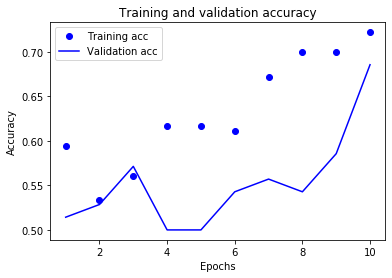
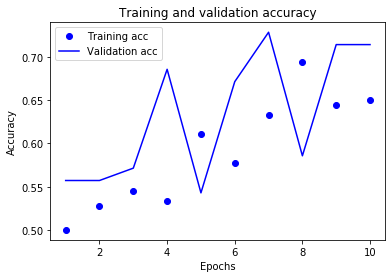
new plots

diff --git a/_posts/2020-01-16-data-analysis-epl1718.md b/_posts/2020-01-16-data-analysis-epl1718.md
@@ -67,17 +67,19 @@ The training and validation accuracies of the network can be seen below.
 
 Because of the overfitting, the increase in the validation accuracy stops at some point.
 
-From the plots above, we see that it is a nice idea to stop training after 10 epochs. After modifying the number of epochs to train the network, we train the network again and obtain the following plots.
+From the plots above, we see that it is a nice idea to stop training after around 10 epochs. After modifying the number of epochs to train the network, we train the network again and obtain the following plots.
 
 ![Training and validation losses after 10 epochs]({{ site.url }}/assets/data_analysis_epl1718/train_val_loss_10.jpg)
 
 ![Training and validation accuracies after 10 epochs]({{ site.url }}/assets/data_analysis_epl1718/train_val_acc_10.jpg)
 
-Looks much better. However, I should say that there is an element of luck because there is a high variance in the performance due to the low amount of data. You are probably tired of reading "performance is not the best due to low amount of data" again and again but this is a common and serious issue in machine learning and deep learning. Since the dataset I am working on is naturally not rich in terms of number of samples, we can do not much but pray. At this point may be you have thought "Why not use the previous seasons as well?". The reason we cannot do that is the league is dynamic. The teams playing in the league change, the players change, the coaches and the football tactics of the team change and so on. At the time of writing this post (Jan 16, 2020), Liverpool is dominating the league. If you use the 2010-2011 EPL season too in your dataset, you will get poor performance because the team was not as good as today.
+Looks much better. However, I should say that there is an element of luck for the 2 plots above because there is a high variance in the performance due to the low amount of data. You are probably tired of reading "performance is not the best due to low amount of data" again and again but this is a common and serious issue in machine learning and deep learning. Since the dataset I am working on is naturally not rich in terms of number of samples, we can do not much but pray. At this point may be you have thought "Why not use the previous seasons as well?". The reason we cannot do that is the league is dynamic. The teams playing in the league change, the players change, the coaches and the football tactics of the team change and so on. At the time of writing this post (Jan 16, 2020), Liverpool is dominating the league. If you use the 2010-2011 EPL season too in your dataset, you will get poor performance because the team was not as good as today.
 
-We evaluate our model in the test set: 8 weeks (80 matches). There will be high variance in the result since the number of samples in the test set is too low. Every time we run the whole code, we will get different results in the range 55-70%. To get a meaningful result, I have run the code 100 times and took the average. The performance in the test set is 60%. This is the best we can do with the current setup. Maybe one can use advanced techniques such as few-shot learning algorithms to increase the performance. Or the hyperparameters can be tuned.
+We evaluate our model in the test set: 8 weeks (80 matches). There will be high variance in the result since the number of samples in the test set is too low. Every time we run the whole code, we will get different results in the range 55-70%. To get a meaningful result, I have run the code 100 times and took the average. The performance in the test set is 61% as seen below. This is the best we can do with the current setup. Maybe one can use advanced techniques such as few-shot learning algorithms to increase the performance. Or the hyperparameters can be tuned.
 
-So, we are now able to predict the result of a match (O2.5 or U2.5) with 60% accuracy. This is better than the "dumb" baseline 50%. Suppose you are betting on 3 matches. If you are betting randomly, then you have a 12.5% chance of winning in total. However, you have ~22% chance if you use the model. Maybe your intuition performs better than this model, maybe not. What is certain is that you can use this approach while betting. It certainly gives you useful information.
+![Performance on test set for different runs]({{ site.url }}/assets/data_analysis_epl1718/test_runs.jpg)
+
+So, we are now able to predict the result of a match (O2.5 or U2.5) with 61% accuracy. This is better than the "dumb" baseline 50%. Suppose you are betting on 3 matches. If you are betting randomly, then you have a 12.5% chance of winning in total. However, you have ~22% chance if you use the model. Maybe your intuition performs better than this model, maybe not. What is certain is that you can use this approach while betting. It certainly gives you useful information.
 
 If you want to apply this work to the current season, first you should have the dataset. However, since the current season is ongoing, you will have less data. You will have not even 380 matches. Therefore, your model will perform worse compared to this one.
 
